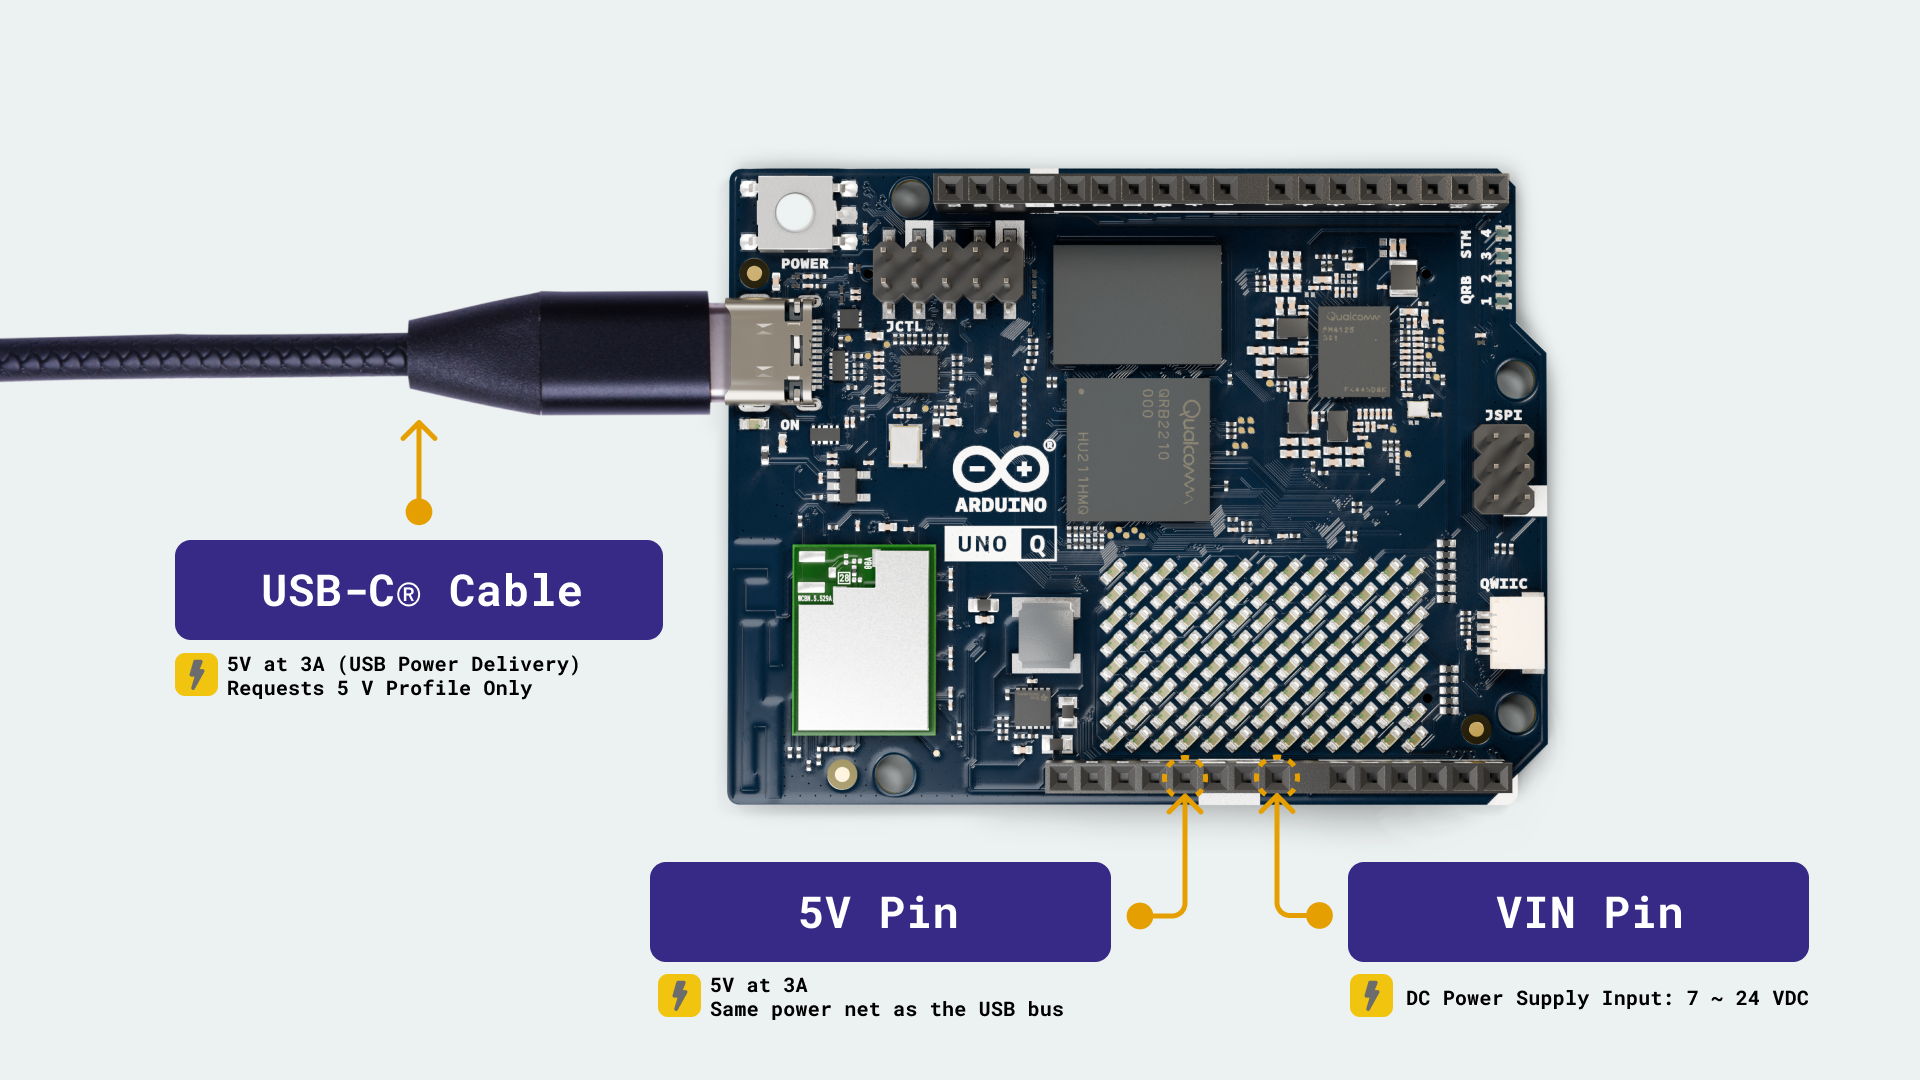
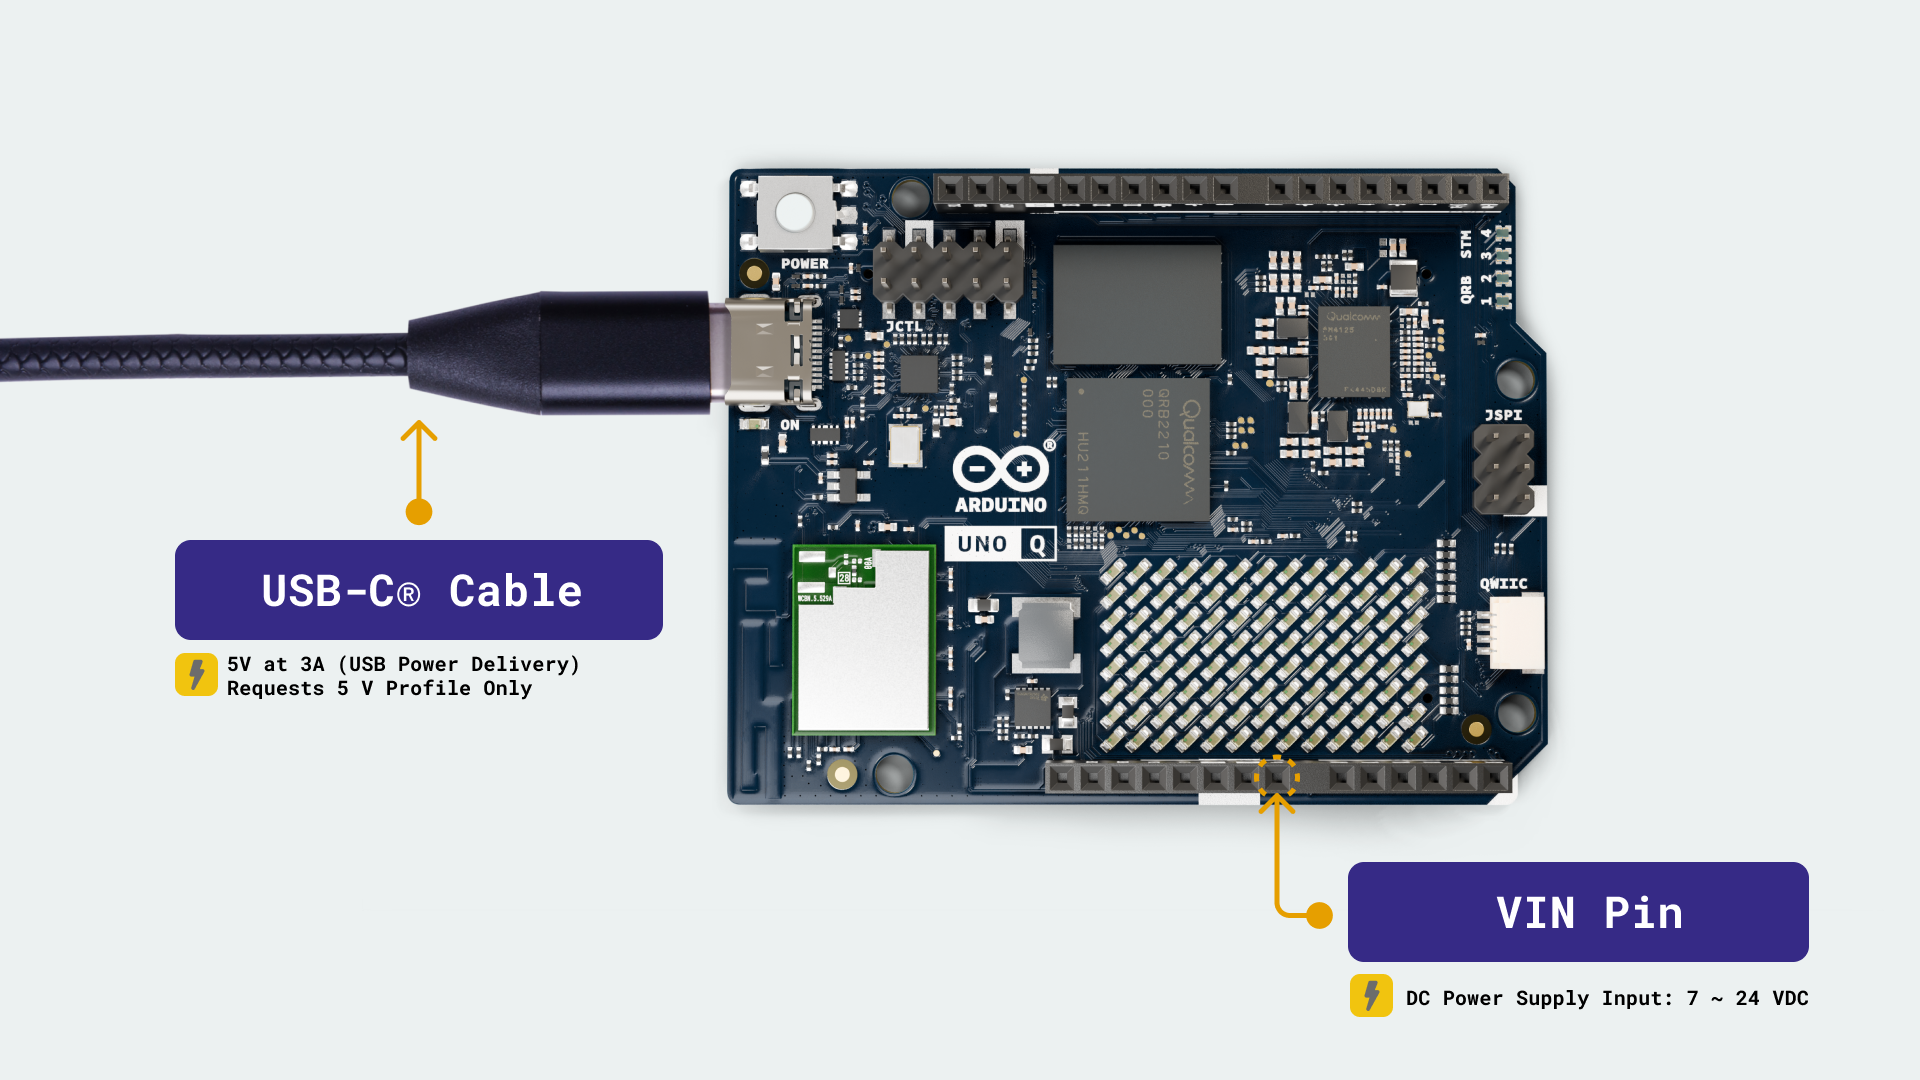
UNO Q Datasheet JANALOG 5V Pin update

Changed region(s): [[0.3125, 0.7944, 0.625, 0.9472], [0.5938, 0.7333, 0.625, 0.7639]]

diff --git a/content/hardware/02.uno/boards/uno-q/datasheet/datasheet.md b/content/hardware/02.uno/boards/uno-q/datasheet/datasheet.md
@@ -109,9 +109,8 @@ The wireless module uses SDIO for Wi-Fi® data and a UART for Bluetooth® contro
 |-------------|------------------:|--------------------:|-----------------------|
 | USB-C VBUS  |               5 V |           up to 3 A | USB-C connector       |
 | VIN (DC IN) |            7-24 V |                   - | JMEDIA, JANALOG (VIN) |
-| 5 V Pin     |               5 V |           up to 3 A | JANALOG               |
 
-<p style="text-align: justify;">UNO Q supports dual power inputs: a USB-C port and a 7-24V DC input. Over USB Power Delivery, it requests only the 5 V / 3 A contract and does not request higher-voltage PD profiles. Use a supply and cable rated for 5 V at 3 A to avoid undervoltage during short activity peaks such as wireless bursts or display initialization. A regulated external 5 V DC source can also be used to supply power to the board via the 5 V pin on the JANALOG header.</p>
+<p style="text-align: justify;">UNO Q supports dual power inputs: a USB-C port and a 7-24V DC input. Over USB Power Delivery, it requests only the 5 V / 3 A contract and does not request higher-voltage PD profiles. Use a supply and cable rated for 5 V at 3 A to avoid undervoltage during short activity peaks such as wireless bursts or display initialization.</p>
 
 <p style="text-align: justify;"><em>USB-C VBUS</em> and the 5 V output of the 7-24 V buck are <em>diode-OR</em> combined onto the system 5 V bus (<code>5V_SYS</code>). From <code>5V_SYS</code>, the design derives the 3.8 V pre-regulator node and, subsequently, the 3.3 V.
 The PMIC, powered by 5V_SYS, derives the 1.8V rail.</p>
@@ -644,7 +643,7 @@ For first time setting up:
   <strong>Note:</strong> In <strong>PC-hosted</strong> mode, a <em>USB data</em> connection is required for first-time setup. Afterwards you can use the <strong>Network</strong> target over LAN (SSH). In <strong>Single-Board Computer (SBC)</strong> mode, no USB data link is needed for setup, just power the board and use the <strong>Network</strong> target once it joins your network. For peripherals in SBC mode (keyboard, mouse, USB camera, microphone), use a USB-C dongle with external power delivery capabilities. When DisplayPort Alt-Mode is active, USB data speed is reduced.</p>
 </div>
 
-Use a 5 V / 3 A USB-C source and cable, or power from the 5 V or VIN pins as specified in the [input power section](#input-power) (USB-C is 5 V only / VIN is 7-24 V).
+Use a 5 V / 3 A USB-C source and cable, or power from the VIN pin as specified in the [input power section](#input-power) (USB-C is 5 V only / VIN is 7-24 V).
 
 <div style="background-color: rgba(0, 170, 228, 0.2); border-left: 6px solid rgba(0, 120, 180, 1); margin: 20px 0; padding: 15px;">
   First boot typically takes 20-30 seconds while Linux starts. Wait for the boot LED sequence or the LED-matrix animation to finish before interacting with the board.
@@ -2557,6 +2556,7 @@ Este equipamento não tem direito à proteção contra interferência prejudicia
 
 |  **Date**  | **Revision** | **Changes**                                                                                                                  |
 |:----------:|:------------:|------------------------------------------------------------------------------------------------------------------------------|
+| 04/08/2026 |      14      | Updated power input option table (JANALOG)                                                                                   |
 | 17/06/2026 |      13      | Display output clarification (USB-C and JMEDIA)                                                                              |
 | 16/06/2026 |      12      | Add Safety information section                                                                                               |
 | 01/06/2026 |      11      | Add RED radio equipment frequency band and transmit power information                                                        |
